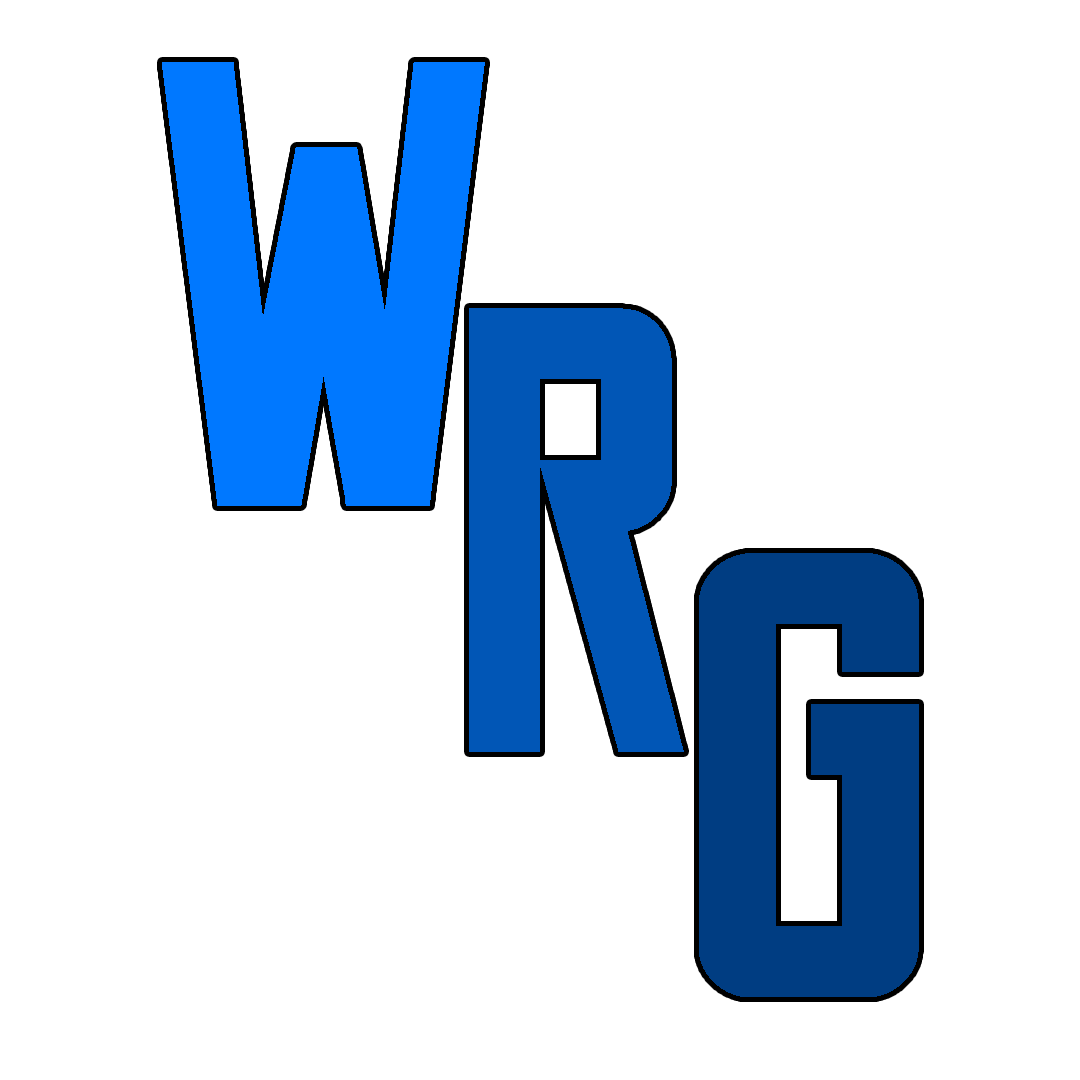
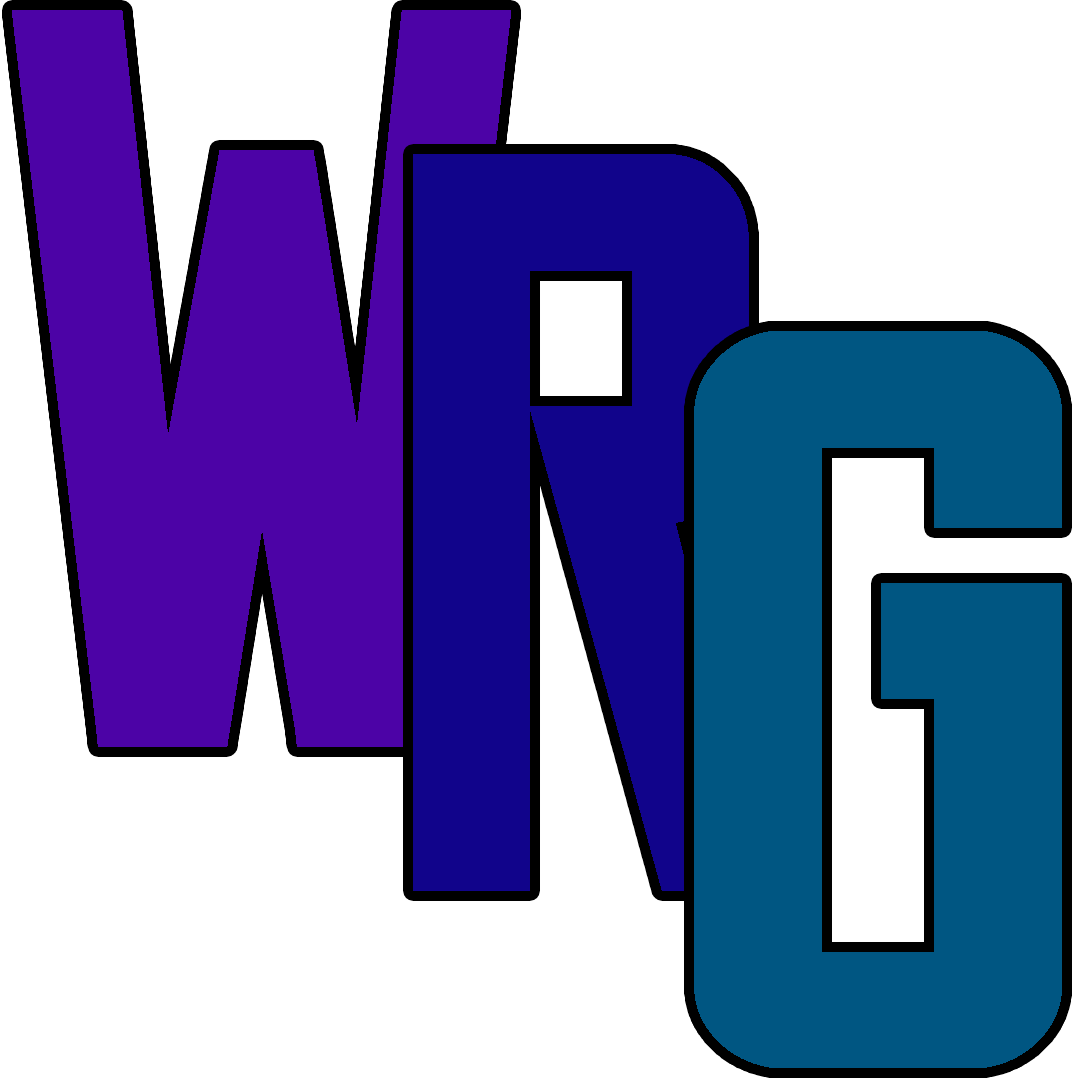
fix: resolve WebKit backdrop-filter snapping bug by delaying glass-panel blur fade-in until translation animation completes

diff --git a/src/App.css b/src/App.css
@@ -1196,3 +1196,57 @@
   }
 }
 
+/* Tab-specific background styling */
+.main-content {
+  position: relative;
+  z-index: 0;
+}
+
+.main-content[class*="bg-theme-"]::before {
+  content: "";
+  position: fixed;
+  top: 0;
+  left: 0;
+  width: 100vw;
+  height: 100vh;
+  opacity: 0.15; /* subtle and faded background */
+  pointer-events: none;
+  z-index: -1;
+  background-position: center;
+  background-repeat: no-repeat;
+  background-size: cover;
+  transition: background-image 0.5s ease-in-out; /* smooth transition when switching tabs */
+}
+
+.bg-theme-dashboard::before {
+  background-image: url('/backgrounds/home-bg.jpg');
+}
+
+.bg-theme-tiers::before {
+  background-image: url('/backgrounds/tierlist-bg.jpg');
+}
+
+.bg-theme-robots::before {
+  background-image: url('/backgrounds/value-bg.jpg');
+}
+
+.bg-theme-builds::before {
+  background-image: url('/backgrounds/buildguides-bg.jpg');
+}
+
+.bg-theme-specializations::before {
+  background-image: url('/backgrounds/specializations-bg.jpg');
+}
+
+.bg-theme-pilots::before {
+  background-image: url('/backgrounds/pilotskills-bg.jpg');
+}
+
+.bg-theme-weapons::before {
+  background-image: url('/backgrounds/dps-bg.jpg');
+}
+
+.bg-theme-hangar::before {
+  background-image: url('/backgrounds/hangaranalyzer-bg.jpg');
+}
+

diff --git a/src/index.css b/src/index.css
@@ -112,20 +112,51 @@ body {
 
 /* Glassmorphism Container styling */
 .glass-panel {
-  background: var(--bg-card);
-  backdrop-filter: blur(12px);
-  -webkit-backdrop-filter: blur(12px);
+  position: relative;
+  z-index: 1;
+  overflow: hidden;
   border: 1px solid var(--border-light);
   border-radius: 12px;
   padding: 24px;
-  transition: all 0.3s cubic-bezier(0.4, 0, 0.2, 1);
+  
+  transition: border-color 0.3s cubic-bezier(0.4, 0, 0.2, 1),
+              box-shadow 0.3s cubic-bezier(0.4, 0, 0.2, 1),
+              transform 0.3s cubic-bezier(0.4, 0, 0.2, 1);
+}
+
+.glass-panel::before {
+  content: "";
+  position: absolute;
+  top: 0;
+  left: 0;
+  right: 0;
+  bottom: 0;
+  background: var(--bg-card);
+  backdrop-filter: blur(12px);
+  -webkit-backdrop-filter: blur(12px);
+  z-index: -1;
+  pointer-events: none;
+  opacity: 0; /* Start hidden and let the animation fade it in */
+  
+  /* GPU acceleration to prevent backdrop-filter blur snapping during opacity/transform animations */
+  transform: translateZ(0);
+  -webkit-backface-visibility: hidden;
+  backface-visibility: hidden;
+  
+  /* Gradually fade in the backdrop blur layer after the parent translation animation completes to prevent snapping */
+  animation: glassBlurFadeIn 0.4s ease-out 0.25s forwards;
+  
+  transition: background 0.3s cubic-bezier(0.4, 0, 0.2, 1);
 }
 
 .glass-panel-hover:hover {
-  background: var(--bg-card-hover);
   border-color: var(--border-hover);
   box-shadow: 0 10px 30px -10px rgba(0, 0, 0, 0.7);
   transform: translateY(-2px);
+}
+
+.glass-panel-hover:hover::before {
+  background: var(--bg-card-hover);
 }
 
 /* Typography Helpers */
@@ -147,8 +178,18 @@ button, select, input {
   to { opacity: 1; transform: translateY(0); }
 }
 
+@keyframes glassBlurFadeIn {
+  from {
+    opacity: 0;
+  }
+  to {
+    opacity: 1;
+  }
+}
+
 .animate-fade-in {
   animation: fadeIn 0.4s ease-out forwards;
+  will-change: transform, opacity;
 }
 
 .animation-delay-100 { animation-delay: 0.1s; }

diff --git a/src/App.jsx b/src/App.jsx
@@ -25,7 +25,7 @@ function App() {
     <div className="app-container">
       <Header activeTab={activeTab} onTabChange={setActiveTab} />
 
-      <main className="main-content">
+      <main className={`main-content bg-theme-${activeTab}`}>
         {activeTab === 'dashboard' && <DashboardTab onTabChange={setActiveTab} />}
         {activeTab === 'tiers' && <TierListTab onItemClick={openItemDetails} />}
         {activeTab === 'robots' && <RobotsGuideTab />}